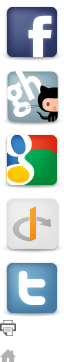
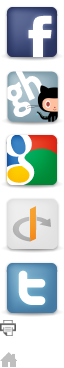
Trying again with home sprite.

diff --git a/app/helpers/application_helper.rb b/app/helpers/application_helper.rb
@@ -36,8 +36,8 @@ module ApplicationHelper
   end
 
   def active_list_link(text, link, *args)
-    options = args.extract_options!
-    options[:class] = 'active' if current_page?(link)
+    options = { :class => '' }.merge(args.extract_options!)
+    options[:class] << ' active' if current_page?(link)
     link_options = options.has_key?(:link_options) ? options.delete(:link_options) : {}
     content_tag :li, options do
       link_to(text.to_s, link, link_options)
